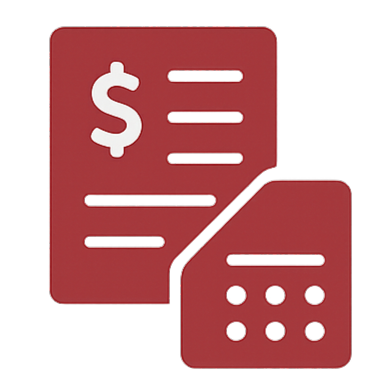
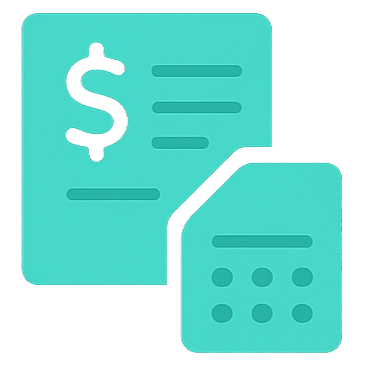
arka plan v erenkler yeniden düzenlendi.

diff --git a/frontend/humanresource/src/components/atoms/Product.tsx b/frontend/humanresource/src/components/atoms/Product.tsx
@@ -1,11 +1,37 @@
 import 'bootstrap/dist/css/bootstrap.min.css';
 import './Product.css';
+import {useEffect, useRef, useState} from "react";
 
 function Product(){
+
+    const titleRef = useRef(null);
+    const [titleVisible, setProfileVisible] = useState(false)
+
+    useEffect(() => {
+        const oberver3 = new IntersectionObserver(
+            ([entry]) => {
+                if (entry.isIntersecting) {
+                    setProfileVisible(true);
+                }
+            },
+            { threshold : 0.3}
+        );
+
+        if (titleRef.current) oberver3.observe(titleRef.current);
+
+        return () => {
+          oberver3.disconnect();
+        };
+
+    }, []);
+
     return(
         <div className="product-container">
-            <div className="titleheader">
-                <h1>PRODUCTS</h1>
+            <div
+                ref={titleRef}
+                className={`titleheader ${titleVisible ? 'show' : ''}`}
+            >
+                <h1>Products</h1>
                 <h4>Pricing based on your number of employees,
                     use as much as you want, pay as much as you use
                 </h4>
@@ -13,7 +39,7 @@ function Product(){
             <div className="productlist">
                 <div className="product">
                     <div className="product-header">
-                        <img className="small-image"   src="/img/personel.png"/>
+                        <img className="small-image"   src="/img/employee.png"/>
                         <h4 className="product-name-style">
                             Employee Management
                         </h4>
@@ -62,7 +88,7 @@ function Product(){
                 </div>
                 <div className="product">
                     <div className="product-header">
-                        <img className="small-image"   src="/img/zimmet.png"/>
+                        <img className="small-image"   src="/img/assets.png"/>
                         <h4 className="product-name-style">
                             Asset Management
                         </h4>

diff --git a/frontend/humanresource/src/components/atoms/Product.css b/frontend/humanresource/src/components/atoms/Product.css
@@ -1,8 +1,5 @@
 .product-container{
-    background: linear-gradient(    180deg,
-    white 0%,
-    white 5%,
-    #beffb1 50%);
+    background: #ffffff;
     display: flex;
     flex-direction: column;
     justify-content: center;
@@ -10,7 +7,7 @@
 }
 .product{
     padding: 10px;
-    margin-top: 100px;
+    margin-top: 50px;
     margin-bottom: 100px;
     background-color: #ffffff;
     width: 300px;
@@ -48,32 +45,45 @@
 .product-manage-btn{
     width: 150px;
     border-radius: 40px;
-    border: 1px solid rgb(37, 89, 65);
+    border: 1px solid rgb(0, 121, 107);
     font-family: "Roboto Thin";
     background-color: rgb(255, 255, 255);
     cursor: pointer;
-    color: #255941;
+    color: #00796B;
     font-weight: normal;
 }
 .product-manage-btn:hover{
-    background-color: #254231;
-    border: 2px solid rgb(37, 89, 65);
+    background-color: #00796B;
+    border: 2px solid rgb(0, 121, 107);
     color: #ffffff;
 }
 .titleheader{
     font-family: "Roboto Thin";
-    color: #255941;
-    font-weight: bold;
+    color: #6a8580;
+    font-weight: 900;
     display: flex;
     justify-content: center;
     align-content: end;
     flex-direction: column;
-    text-align: center;
+    margin-left: 60px;
+    transform: translateY(-50px);
+    transition: all 0.6s ease-out;
+}
+.titleheader.show{
+    opacity: 1;
+    transform: translateY(0);
+}
+
+.titleheader h1{
+    color: black;
+    text-shadow: 0 1px 1px rgba(40, 97, 68, 0.2);
+    font-family: "Roboto Thin";
+    font-weight: 900;
 }
 .productlist{
 
     display: flex;
-    gap: 30px;
+    gap: 20px;
     justify-content: center;
-    align-content: center;
+
 }

diff --git a/frontend/humanresource/src/components/molecules/HeaderComponents.css b/frontend/humanresource/src/components/molecules/HeaderComponents.css
@@ -1,5 +1,5 @@
 .header-container{
-    background: linear-gradient(180deg, #254231, white);
+    background-image: url('/img/background.png');
     display: flex;
     gap: 20px; /* Butonlar arası boşluk */
     width: 100%;
@@ -12,44 +12,44 @@
     color: white;
     border: 2px solid white;
     border-radius: 40px;
-    padding: 8px;
-    font-size: 1rem;
+    padding: 5px;
+    font-size: 1.3rem;
     font-weight: 600;
     font-family: "Roboto Thin";
     cursor: pointer;
     transition: all 0.3s ease;
-    width: 120px;
+    width: 180px;
     height: 50px;
 }
 .login-btn:hover {
     background-color: white;
-    color: #beffb1 ;
+    color: #00796B ;
 }
 .signup-btn{
     background-color: white;
-    color: #254231;
+    color:  #00796B;
     border: 2px solid white;
     border-radius: 40px;
-    padding: 8px;
-    font-size: 1rem;
+    padding: 5px;
+    font-size: 1.3rem;
     font-weight: 600;
     font-family: "Roboto Thin";
     cursor: pointer;
     transition: all 0.3s ease;
-    width: 120px;
+    width: 180px;
     height: 50px;
 
 }
 .signup-btn:hover {
-    background-color: #beffb1 ;
-    border: #beffb1 ;
+    background-color: #00796B;
+    border: #00796B ;
     color: white;
 }
 .btn1{
     background-color: transparent;
     color: white;
     padding: 8px;
-    font-size: 1rem;
+    font-size: 1.3rem;
     font-weight: 600;
     font-family: "Roboto Thin";
     cursor: pointer;
@@ -60,11 +60,12 @@
 }
 .btn1:hover {
     background-color: transparent;
-    color: #beffb1;
+    color: #00796B;
 }
 .logo{
     margin-left: 40px;
-    width: 220px;
+
+    width: 300px;
     height: fit-content;
 }
 

diff --git a/frontend/humanresource/src/components/molecules/HeaderComponents.tsx b/frontend/humanresource/src/components/molecules/HeaderComponents.tsx
@@ -8,14 +8,15 @@ function HeaderComponent() {
 
         <>
             <div className="header-container">
+
                 <div className="row deneme" >
-                    <div className="col-5">
+                    <div className="col-4">
                         <img className="logo" src="/img/logo.png" alt="logo" />
                     </div>
-                    <div className="col-1 button-location">
+                    <div className="col-8 button-location">
                         <button className="btn1 me-3 mt-1">PRODUCTS</button>
                         <button className="btn1 me-3 mt-1">USER STORIES</button>
-                        <button className="signup-btn me-3 mt-4" onClick={() => navigate('/register')}>SIGN UP</button>
+                        <button className="signup-btn me-3 mt-4" onClick={() => navigate('/register')}>APPLY NOW</button>
                         <button className="login-btn me-5 mt-4" onClick={() => navigate('/login')}>LOG IN</button>
                     </div>
                 </div>
@@ -25,7 +26,7 @@ function HeaderComponent() {
 
 
                 <div className="commercial">
-                    <img className="dashboard-img" src="/img/dasbord_example.png" alt="logo" />
+                    <img className="dashboard-img" src="/img/dashboard.png" alt="logo" />
                 </div>
             </div>
 

diff --git a/frontend/humanresource/src/components/atoms/UserStories.tsx b/frontend/humanresource/src/components/atoms/UserStories.tsx
@@ -52,7 +52,7 @@ function UserStories() {
                             <h2>
                                 “One of the most enjoyable aspects of working with Humin is offering a great customer experience service.”
                             </h2>
-                            <h6>
+                            <h6 className="greycolor">
                                 Müge Tuğcu, Senior Employee Happiness and Corporate Transformation Manager
                             </h6>
                             <button className="user-story-buton2">
@@ -70,9 +70,9 @@ function UserStories() {
                             User Stories
                         </h1>
                         <hr/>
-                        <h4>
+                        <h4 className="greycolor">
                             We’re simplifying HR together with thousands of human resources professionals. Discover how HR experts got started with Humin.
-                            Join a growing community that’s transforming HR into a more human-focused experience.
+
                         </h4>
                         <button className="user-story-buton">
                             Show All Stories →

diff --git a/frontend/humanresource/src/components/atoms/UserStories.css b/frontend/humanresource/src/components/atoms/UserStories.css
@@ -58,12 +58,12 @@
     font-family: "Roboto Thin";
     background-color: #ffffff;
     cursor: pointer;
-    color: rgb(37, 89, 65);
+    color: rgb(0, 121, 107);
     font-weight: normal;
 }
 .user-story-buton:hover{
     border: 2px solid #ffffff;
-    color: #255941;
+    color:#00796B;
     font-weight: bolder;
     transform: scale(1.03);
 }
@@ -77,12 +77,15 @@
     font-family: "Roboto Thin";
     background-color: #ffffff;
     cursor: pointer;
-    color: rgb(37, 89, 65);
+    color: rgb(0, 121, 107);
     font-weight: normal;
 }
 .user-story-buton2:hover{
     border: 2px solid #ffffff;
-    color: #255941;
+    color: #00796b;
     font-weight: bolder;
     transform: scale(1.03);
+}
+.greycolor{
+    color: #6a8580;
 }

diff --git a/frontend/humanresource/src/components/molecules/FooterComponent.css b/frontend/humanresource/src/components/molecules/FooterComponent.css
@@ -1,5 +1,5 @@
 .footer-container{
-    background-color: #254231;
+    background-color: #00C4B3;
     height: 260px;
     padding-inline: 100px;
     padding-block: 40px;
@@ -17,7 +17,7 @@
 }
 #footer:hover{
     text-decoration: none;
-    color: #beffb1;
+    color: #00796B;
     font-family: "Roboto Thin";
     font-size: 16px;
 }

diff --git a/frontend/humanresource/src/pages/HomePage/HomePage.tsx b/frontend/humanresource/src/pages/HomePage/HomePage.tsx
@@ -6,7 +6,7 @@ import FooterComponent from "../../components/molecules/FooterComponents.tsx";
 
 function HomePage(){
     return(
-        <div className="container-fluid">
+        <div className="container-xxl">
                 <HeaderComponent />
                 <Body />
                 <FooterComponent/>
